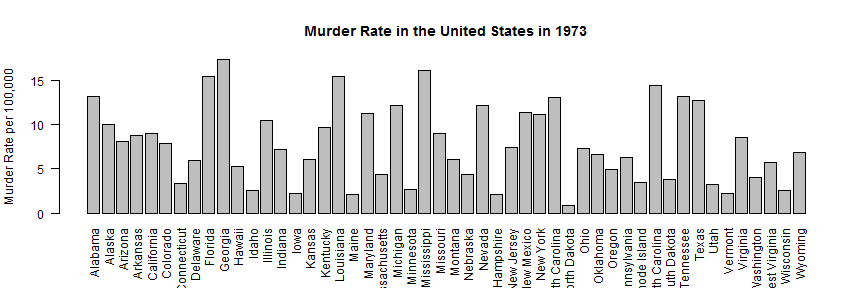
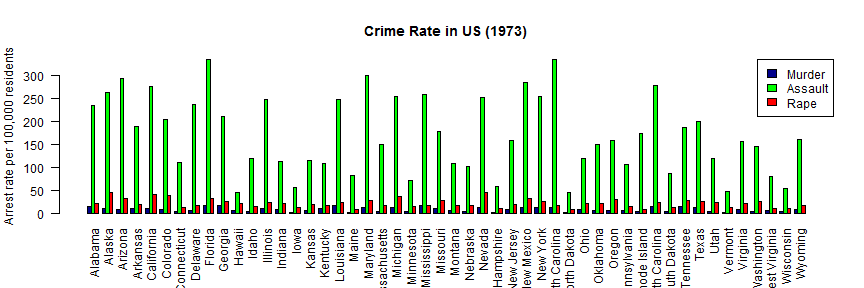
updated presentations
updated presentations

diff --git a/presentation/index.html b/presentation/index.html
@@ -58,7 +58,23 @@
 <li>Rape: number of rape arrests (per 100,000 residents) </li>
 </ul>
 
-<p>An intuitive way to visualize the data is to through an interactive map (choropleth). To use the app, select the violent crime type from the dropdown box to display the crime rate for each state as indicated by the color code. The map uses a color legend that reflects the severity of violent crime rate for each state, where blue indicates low crime rate and red indicates high crime rate. The average &amp; standard deviation is also computed and displayed. If you hover your mouse pointer over a state, the number of arrests will be displayed.<br /><br /></p>
+  </article>
+  <!-- Presenter Notes -->
+</slide>
+
+<slide class="class" id="id" style="background:;">
+  <hgroup>
+    <h2>How To Use The App</h2>
+  </hgroup>
+  <article data-timings="">
+    <p>The <a href="https://limminchim.shinyapps.io/PA91">app</a> provides an intuitive way to visualize the data through an interactive map (choropleth). </p>
+
+<ul>
+<li>To use the app, select the violent crime type from the dropdown box to display the crime rate for each state as indicated by the color code. </li>
+<li>The map uses a color legend that reflects the severity of violent crime rate for each state, where blue indicates low crime rate and red indicates high crime rate. </li>
+<li>The average &amp; standard deviation is also computed and displayed. </li>
+<li>If you hover your mouse pointer over a state, the number of arrests will be displayed.</li>
+</ul>
 
   </article>
   <!-- Presenter Notes -->
@@ -66,53 +82,20 @@
 
 <slide class="class" id="id" style="background:;">
   <hgroup>
-    <h2>Bar Graph of Murder Rates</h2>
+    <h2>Bar Plot of Violent Crime Rates</h2>
   </hgroup>
   <article data-timings="">
-    <p>Let&#39;s look at the murder rate for each of the states using a simple bar graph. </p>
+    <p>Let&#39;s compare the various violent crime rates for each of the states using a simple bar plot. </p>
 
-<pre><code class="r">state.names = row.names(USArrests)
-barplot(USArrests$Murder, names.arg = state.names, las = 2, ylab = &quot;Murder Rate per 100,000&quot;, 
-    main = &quot;Murder Rate in the United States in 1973&quot;)
+<pre><code class="r">ArrestStats &lt;- cbind(USArrests$Murder, USArrests$Assault, USArrests$Rape)
+colnames(ArrestStats) &lt;- c(&quot;Murder&quot;, &quot;Assault&quot;, &quot;Rape&quot;) 
+rownames(ArrestStats) &lt;- row.names(USArrests)
+barplot(t(ArrestStats), beside=T, ylab=&quot;Arrest rate per 100,000 residents&quot;, 
+        legend.text = c(&quot;Murder&quot;, &quot;Assault&quot;, &quot;Rape&quot;), args.legend = list(x = &quot;topright&quot;),
+        las=2, col=c(&quot;darkblue&quot;, &quot;green&quot;, &quot;red&quot;), main = &quot;Crime Rate in US (1973)&quot;)
 </code></pre>
 
[1 lines of base64/hex data omitted]
-
-  </article>
-  <!-- Presenter Notes -->
-</slide>
-
-<slide class="class" id="id" style="background:;">
-  <hgroup>
-    <h2>Bar Graph of Assault Rates</h2>
-  </hgroup>
-  <article data-timings="">
-    <p>Let&#39;s look at the assault rate for each of the states using a simple bar graph. </p>
-
-<pre><code class="r">state.names = row.names(USArrests)
-barplot(USArrests$Assault, names.arg = state.names, las = 2, ylab = &quot;Assault Rate per 100,000&quot;, 
-    main = &quot;Assault Rate in the United States in 1973&quot;)
-</code></pre>
-
[1 lines of base64/hex data omitted]
-
-  </article>
-  <!-- Presenter Notes -->
-</slide>
-
-<slide class="class" id="id" style="background:;">
-  <hgroup>
-    <h2>Bar Graph of Rape Rates</h2>
-  </hgroup>
-  <article data-timings="">
-    <p>Let&#39;s look at the rape rate for each of the states using a simple bar graph. </p>
-
-<pre><code class="r">state.names = row.names(USArrests)
-barplot(USArrests$Rape, names.arg = state.names, las = 2, ylab = &quot;Rape Rate per 100,000&quot;, 
-    main = &quot;Rape Rate in the United States in 1973&quot;)
-</code></pre>
-
[2 lines of base64/hex data omitted]
 
   </article>
   <!-- Presenter Notes -->
@@ -147,26 +130,20 @@ barplot(USArrests$Rape, names.arg = state.names, las = 2, ylab = &quot;Rape Rate
     </li>
     <li>
       <a href="#" target="_self" rel='tooltip' 
-        data-slide=2 title='Bar Graph of Murder Rates'>
+        data-slide=2 title='How To Use The App'>
          2
       </a>
     </li>
     <li>
       <a href="#" target="_self" rel='tooltip' 
-        data-slide=3 title='Bar Graph of Assault Rates'>
+        data-slide=3 title='Bar Plot of Violent Crime Rates'>
          3
       </a>
     </li>
     <li>
       <a href="#" target="_self" rel='tooltip' 
-        data-slide=4 title='Bar Graph of Rape Rates'>
+        data-slide=4 title='Credits'>
          4
-      </a>
-    </li>
-    <li>
-      <a href="#" target="_self" rel='tooltip' 
-        data-slide=5 title='Credits'>
-         5
       </a>
     </li>
   </ul>

diff --git a/presentation/index.md b/presentation/index.md
@@ -16,56 +16,38 @@ knit        : slidify::knit2slides
 ---
 
 ## Introduction
-
 For this app, I have used the [USArrests dataset] (https://stat.ethz.ch/R-manual/R-devel/library/datasets/html/USArrests.html), which comes with R datasets package. This dataset contains arrest statistics for assault, murder, and rape in each of the 50 US states in 1973 and the percentage of the population living in urban areas. The structure of the dataset is as follows:
 - Murder: number of murder arrests (per 100,000 residents)
 - Assault: number of assault arrests (per 100,000 residents)
 - UrbanPop: percentage of urban population
 - Rape: number of rape arrests (per 100,000 residents) 
 
-An intuitive way to visualize the data is to through an interactive map (choropleth). To use the app, select the violent crime type from the dropdown box to display the crime rate for each state as indicated by the color code. The map uses a color legend that reflects the severity of violent crime rate for each state, where blue indicates low crime rate and red indicates high crime rate. The average & standard deviation is also computed and displayed. If you hover your mouse pointer over a state, the number of arrests will be displayed.<br /><br />
+--- .class #id 
+
+## How To Use The App
+
+The [app] (https://limminchim.shinyapps.io/PA91) provides an intuitive way to visualize the data through an interactive map (choropleth). 
+
+- To use the app, select the violent crime type from the dropdown box to display the crime rate for each state as indicated by the color code. 
+- The map uses a color legend that reflects the severity of violent crime rate for each state, where blue indicates low crime rate and red indicates high crime rate. 
+- The average & standard deviation is also computed and displayed. 
+- If you hover your mouse pointer over a state, the number of arrests will be displayed.
 
 --- .class #id 
 
-## Bar Graph of Murder Rates
-
-Let's look at the murder rate for each of the states using a simple bar graph. 
+## Bar Plot of Violent Crime Rates
+Let's compare the various violent crime rates for each of the states using a simple bar plot. 
 
 ```r
-state.names = row.names(USArrests)
-barplot(USArrests$Murder, names.arg = state.names, las = 2, ylab = "Murder Rate per 100,000", 
-    main = "Murder Rate in the United States in 1973")
+ArrestStats <- cbind(USArrests$Murder, USArrests$Assault, USArrests$Rape)
+colnames(ArrestStats) <- c("Murder", "Assault", "Rape") 
+rownames(ArrestStats) <- row.names(USArrests)
+barplot(t(ArrestStats), beside=T, ylab="Arrest rate per 100,000 residents", 
+        legend.text = c("Murder", "Assault", "Rape"), args.legend = list(x = "topright"),
+        las=2, col=c("darkblue", "green", "red"), main = "Crime Rate in US (1973)")
 ```
 
 <img src="assets/fig/unnamed-chunk-1-1.png" title="plot of chunk unnamed-chunk-1" alt="plot of chunk unnamed-chunk-1" style="display: block; margin: auto;" />
-
---- .class #id 
-
-## Bar Graph of Assault Rates
-
-Let's look at the assault rate for each of the states using a simple bar graph. 
-
-```r
-state.names = row.names(USArrests)
-barplot(USArrests$Assault, names.arg = state.names, las = 2, ylab = "Assault Rate per 100,000", 
-    main = "Assault Rate in the United States in 1973")
-```
-
-<img src="assets/fig/unnamed-chunk-2-1.png" title="plot of chunk unnamed-chunk-2" alt="plot of chunk unnamed-chunk-2" style="display: block; margin: auto;" />
-
---- .class #id 
-
-## Bar Graph of Rape Rates
-
-Let's look at the rape rate for each of the states using a simple bar graph. 
-
-```r
-state.names = row.names(USArrests)
-barplot(USArrests$Rape, names.arg = state.names, las = 2, ylab = "Rape Rate per 100,000", 
-    main = "Rape Rate in the United States in 1973")
-```
-
-<img src="assets/fig/unnamed-chunk-3-1.png" title="plot of chunk unnamed-chunk-3" alt="plot of chunk unnamed-chunk-3" style="display: block; margin: auto;" />
 
 --- .class #id 
 
